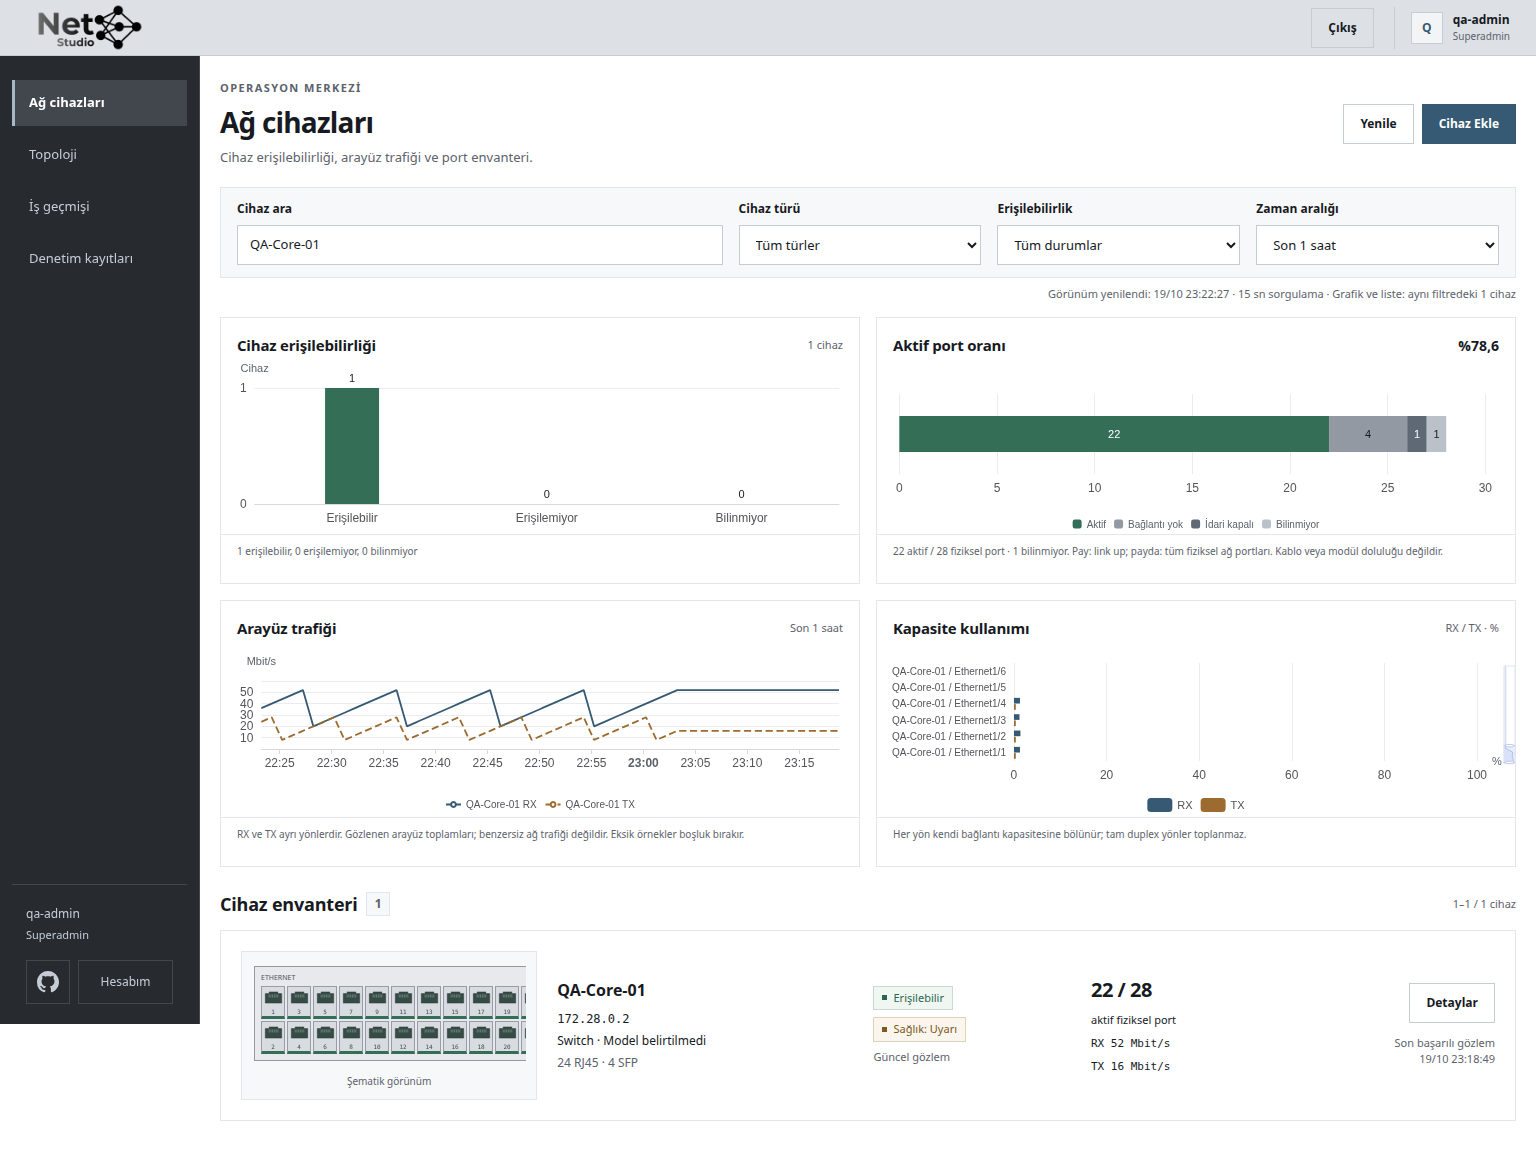
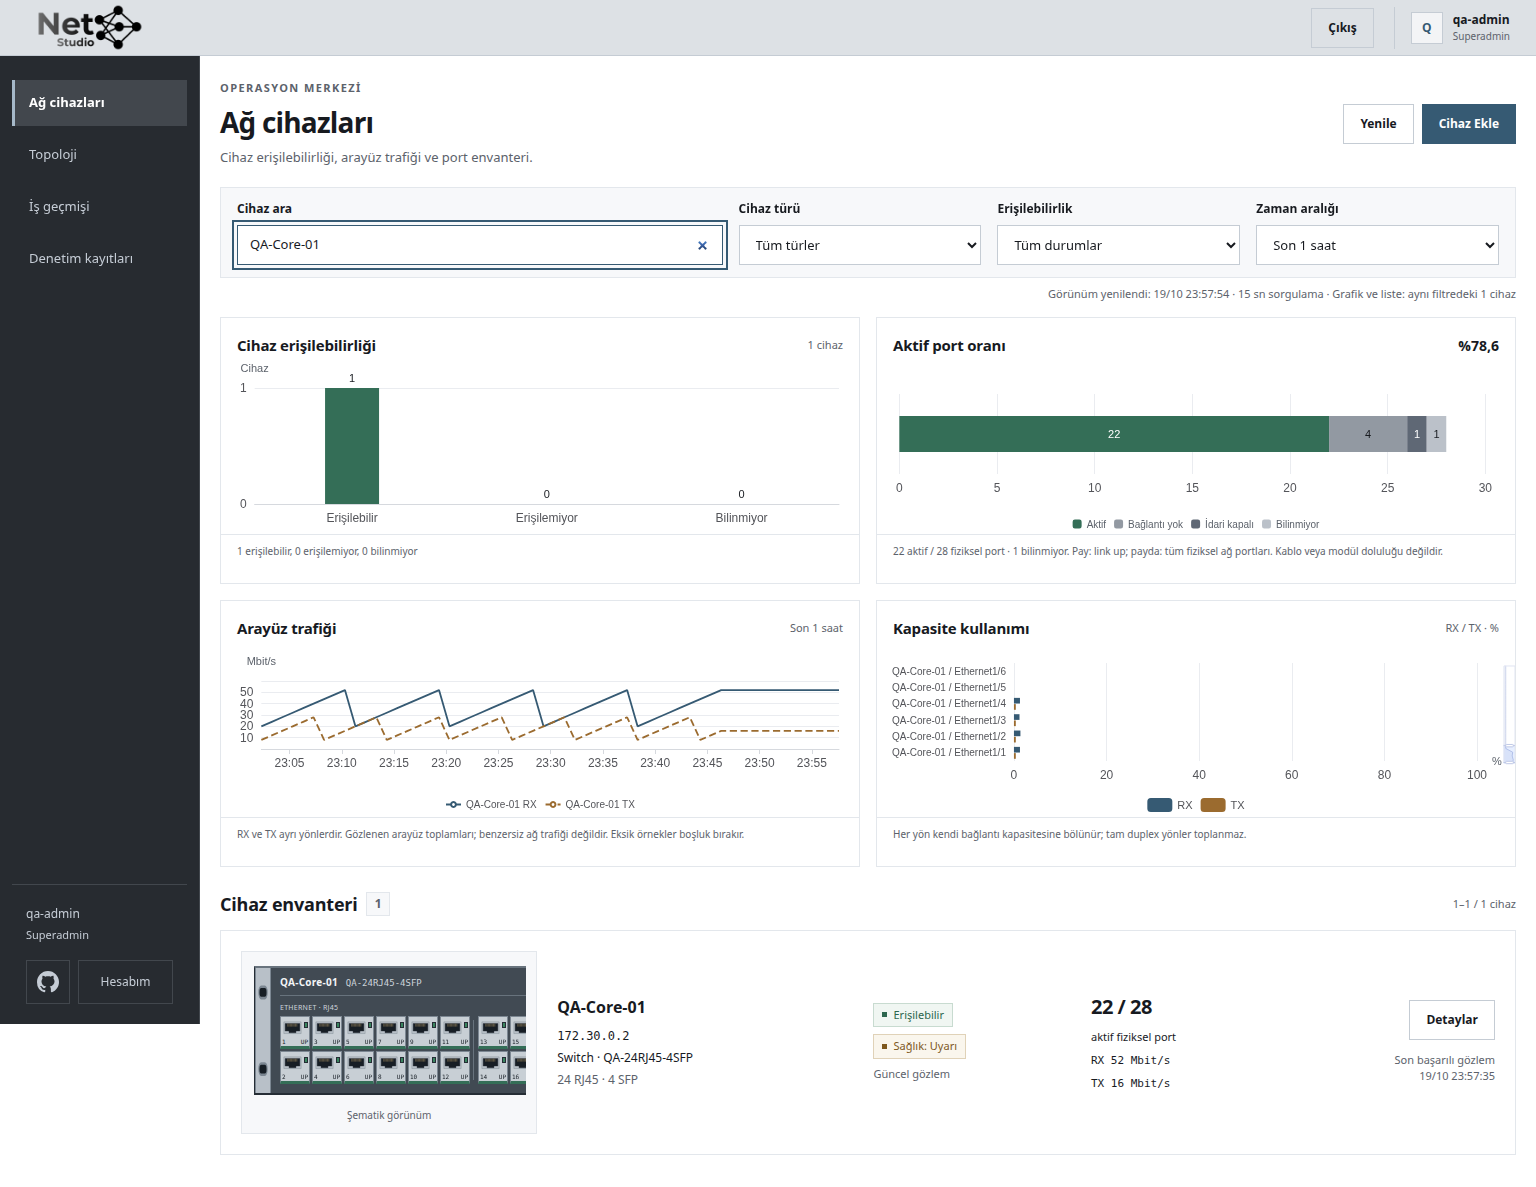
feat: Implement RJ45 port banks layout and update device panel rendering logic

diff --git a/frontend/components/DevicePanel.tsx b/frontend/components/DevicePanel.tsx
@@ -1,7 +1,7 @@
 "use client";
 import { useMemo } from "react";
 import type { PhysicalPort, PortState, Projection } from "../lib/contracts";
-import { groupPanelPorts } from "../lib/panel-layout";
+import { groupPanelPorts, panelPortBanks } from "../lib/panel-layout";
 import {
   formatRate,
   formatTime,
@@ -116,34 +116,44 @@ export function DevicePanel({
                     data-connector={group.connector}
                   >
                     <span className="group-label">{group.title}</span>
-                    <div className="port-grid">
-                      {group.ports.map((port) => {
-                        const status =
-                          row.ports.port_states[port.id] ?? "unknown";
-                        return (
-                          <button
-                            type="button"
-                            key={port.id}
-                            className={`physical-port connector-${port.connector} ${status} ${selectedId === port.id ? "selected" : ""}`}
-                            data-port-id={port.id}
-                            aria-pressed={selectedId === port.id}
-                            aria-label={`${port.label}, ${portLabels[status]}`}
-                            title={`${port.label} · ${port.connector.toUpperCase()} · ${portLabels[status]}`}
-                            onClick={() => onSelect(port)}
-                          >
-                            <span className="port-face">
-                              <PortGeometry kind={port.connector} />
-                              <span className="port-indicator" aria-hidden="true" />
-                            </span>
-                            <span className="port-marking">
-                              <span className="port-number">{port.label}</span>
-                              <span className="port-link-label" aria-hidden="true">
-                                {linkIndicatorLabels[status]}
-                              </span>
-                            </span>
-                          </button>
-                        );
-                      })}
+                    <div
+                      className={`port-banks ${group.connector === "rj45" ? "rj45-banks" : ""}`}
+                    >
+                      {panelPortBanks(group).map((bank, bankIndex) => (
+                        <div
+                          className="port-grid port-bank"
+                          data-port-bank={bankIndex + 1}
+                          key={bank[0]?.id ?? bankIndex}
+                        >
+                          {bank.map((port) => {
+                            const status =
+                              row.ports.port_states[port.id] ?? "unknown";
+                            return (
+                              <button
+                                type="button"
+                                key={port.id}
+                                className={`physical-port connector-${port.connector} ${status} ${selectedId === port.id ? "selected" : ""}`}
+                                data-port-id={port.id}
+                                aria-pressed={selectedId === port.id}
+                                aria-label={`${port.label}, ${portLabels[status]}`}
+                                title={`${port.label} · ${port.connector.toUpperCase()} · ${portLabels[status]}`}
+                                onClick={() => onSelect(port)}
+                              >
+                                <span className="port-face">
+                                  <PortGeometry kind={port.connector} />
+                                  <span className="port-indicator" aria-hidden="true" />
+                                </span>
+                                <span className="port-marking">
+                                  <span className="port-number">{port.label}</span>
+                                  <span className="port-link-label" aria-hidden="true">
+                                    {linkIndicatorLabels[status]}
+                                  </span>
+                                </span>
+                              </button>
+                            );
+                          })}
+                        </div>
+                      ))}
                     </div>
                   </div>
                 ))}

diff --git a/frontend/tests/e2e/panel.spec.ts b/frontend/tests/e2e/panel.spec.ts
@@ -32,6 +32,15 @@ async function expectOpticsOnRight(panel: Locator) {
   }
 }
 
+async function expectCopperBanks(panel: Locator, count: number) {
+  const banks = panel.locator('[data-connector="rj45"] [data-port-bank]');
+  await expect(banks).toHaveCount(count);
+  if (count < 2) return;
+  const first = await banks.nth(0).boundingBox();
+  const second = await banks.nth(1).boundingBox();
+  expect(second!.x - (first!.x + first!.width)).toBeGreaterThanOrEqual(8);
+}
+
 for (const width of [1536, 390]) {
   test(`rack nameplate, horizontal optics and keyboard selection at ${width}px`, async ({ page }) => {
     const errors: string[] = [];
@@ -50,6 +59,7 @@ for (const width of [1536, 390]) {
     await expect(compact.locator(".chassis-name")).toHaveText("QA-Core-01");
     await expect(compact.locator(".chassis-model")).toHaveText("QA-24RJ45-4SFP");
     await expect(compact.locator(".rack-ear[aria-hidden=true]")).toHaveCount(2);
+    await expectCopperBanks(compact, 2);
     await expectOpticsOnRight(compact);
     await page.screenshot({ path: join(evidence, `dashboard-${width}.png`), fullPage: true });
 
@@ -59,6 +69,7 @@ for (const width of [1536, 390]) {
     await expect(panel.locator(".chassis-name")).toHaveText("QA-Core-01");
     await expect(panel.locator(".chassis-model")).toHaveText("QA-24RJ45-4SFP");
     await expect(panel.locator(".physical-port")).toHaveCount(28);
+    await expectCopperBanks(panel, 2);
     for (const [state, text] of Object.entries({ up: "UP", down: "DOWN", disabled: "ADM", unknown: "?" })) {
       const button = panel.locator(`.physical-port.${state}`).first();
       await expect(button.locator(".port-link-label")).toHaveText(text);
@@ -154,6 +165,7 @@ test("48 copper ports, mixed SFP/QSFP, unknown connectors and empty inventory", 
   await page.getByRole("button", { name: "Yenile", exact: true }).click();
   const panel = page.locator(".device-panel");
   await expect(panel.locator(".physical-port")).toHaveCount(53);
+  await expectCopperBanks(panel, 4);
   await expect(panel.locator('[data-port-id="child"]')).toHaveCount(0);
   await expect(panel.locator('[data-connector="unknown"]')).toContainText("Tür bilinmiyor");
   await expectOpticsOnRight(panel);

diff --git a/frontend/tests/panel-layout.test.ts b/frontend/tests/panel-layout.test.ts
@@ -1,6 +1,6 @@
 import { describe, expect, it } from "vitest";
 import type { PhysicalPort } from "../lib/contracts";
-import { groupPanelPorts } from "../lib/panel-layout";
+import { groupPanelPorts, panelPortBanks, RJ45_PORTS_PER_BANK } from "../lib/panel-layout";
 
 const components = [
   { id: "chassis", kind: "chassis", label: "Chassis" },
@@ -39,5 +39,17 @@ describe("schematic front panel grouping", () => {
     expect(groups[0].title).toContain("Tür bilinmiyor");
     expect(groups[0].optical).toBe(false);
     expect(groupPanelPorts([], components)).toEqual([]);
+  });
+
+  it("creates a visual separator after six RJ45 columns in the two-row grid", () => {
+    const ports = Array.from({ length: 26 }, (_, index) =>
+      port(`r${index + 1}`, "rj45", index + 1),
+    );
+    const [group] = groupPanelPorts(ports, components);
+    expect(RJ45_PORTS_PER_BANK).toBe(12);
+    expect(panelPortBanks(group).map((bank) => bank.length)).toEqual([12, 12, 2]);
+    expect(panelPortBanks(group).flat().map((item) => item.id)).toEqual(
+      ports.map((item) => item.id),
+    );
   });
 });

diff --git a/frontend/lib/panel-layout.ts b/frontend/lib/panel-layout.ts
@@ -8,6 +8,8 @@ export type PanelGroup = {
   ports: PhysicalPort[];
 };
 
+export const RJ45_PORTS_PER_BANK = 12;
+
 const connectorOrder = { rj45: 0, unknown: 1, management: 1, console: 1, sfp: 2, qsfp: 3 };
 
 // Presentation only: keep inventory identities/module labels, without claiming a
@@ -42,4 +44,17 @@ export function groupPanelPorts(
   return [...groups.values()].sort(
     (a, b) => connectorOrder[a.connector] - connectorOrder[b.connector],
   );
+}
+
+// RJ45 ports are drawn in two rows. Twelve inventory entries therefore form a
+// six-column bank before the small physical-style separator. This is explicitly
+// schematic and does not claim measured vendor chassis coordinates.
+export function panelPortBanks(group: PanelGroup): PhysicalPort[][] {
+  const bankSize = group.connector === "rj45"
+    ? RJ45_PORTS_PER_BANK
+    : Math.max(1, group.ports.length);
+  const banks: PhysicalPort[][] = [];
+  for (let index = 0; index < group.ports.length; index += bankSize)
+    banks.push(group.ports.slice(index, index + bankSize));
+  return banks;
 }

diff --git a/frontend/app/globals.css b/frontend/app/globals.css
@@ -869,6 +869,25 @@ h3 {
   grid-auto-flow: column;
   gap: 5px;
 }
+.port-banks {
+  display: flex;
+  align-items: flex-start;
+}
+.rj45-banks {
+  gap: 14px;
+}
+.rj45-banks .port-bank + .port-bank {
+  position: relative;
+}
+.rj45-banks .port-bank + .port-bank::before {
+  content: "";
+  position: absolute;
+  top: 4px;
+  bottom: 4px;
+  left: -8px;
+  width: 1px;
+  background: var(--chassis-seam);
+}
 .optical-group .port-grid {
   grid-template-rows: auto;
 }
@@ -1025,6 +1044,12 @@ button.physical-port.connector-qsfp {
 }
 .compact .port-grid {
   gap: 2px;
+}
+.compact .rj45-banks {
+  gap: 8px;
+}
+.compact .rj45-banks .port-bank + .port-bank::before {
+  left: -5px;
 }
 .compact .physical-port {
   width: 30px;

diff --git a/README.md b/README.md
@@ -35,7 +35,7 @@ Aşağıdaki üç görüntü çalışan uygulamanın izole QA ortamından alınm
 
 **Güncellik kuralı:** Her görsel arayüz güncellemesinde aşağıdaki üç görüntünün tamamı güncel koddan yeniden alınır ve aynı değişiklik/PR içinde teslim edilir. İnsanlar ve yapay zekâ için ayrıntılar [rule.md](rule.md#5-her-görsel-güncellemede-readme-görüntülerini-yenile), ajanların uygulama adımları [agent.md](agent.md) içindedir.
 
-Son set: **19 Ekim 2026**, `stocc-huawei-qa-20261019` izole Docker ortamı, Chrome, 1536 × 1024 viewport ve tam sayfa yakalama. Test edilen çalışma ağacı `24716d5` üzerine Huawei/cihaz hedef onayı değişikliklerini içerir; mevcut kullanıcı kurulumu değiştirilmemiştir.
+Son set: **19 Ekim 2026**, `stocc-panel-qa-20261019` izole Docker ortamı, Chrome, 1536 × 1024 viewport ve tam sayfa yakalama. Test edilen çalışma ağacı `6ca5044` üzerine RJ45 banka ayrımı değişikliklerini içerir; mevcut kullanıcı kurulumu değiştirilmemiştir.
 
 ### Ana sayfa
 
@@ -45,7 +45,7 @@ Cihaz filtresi ve zaman aralığıyla aynı kapsamı paylaşan Apache ECharts gr
 
 ### Cihaz detayı — SSH kapalı
 
-Tam genişlikte etkileşimli cihaz ön paneli; kasa üzerinde envanterdeki cihaz adı/modeli, iki yanda şematik rack montaj delikleri, solda RJ45 ve sağda tek sıra SFP/QSFP grupları. Mat grafit/metal yüzeyler marka bağımsızdır; montaj geometrisi ve port yerleşimi üretici kasasının birebir ölçülü çizimi değildir. Altında IP topolojisi, teknik bilgiler ve sağlık değerlendirmesi bulunur.
+Tam genişlikte etkileşimli cihaz ön paneli; kasa üzerinde envanterdeki cihaz adı/modeli, iki yanda şematik rack montaj delikleri, solda RJ45 ve sağda tek sıra SFP/QSFP grupları. İki sıralı RJ45 görünümünde her altı sütundan sonra ölçülü bir banka ayrımı bulunur. Mat grafit/metal yüzeyler marka bağımsızdır; montaj geometrisi ve port yerleşimi üretici kasasının birebir ölçülü çizimi değildir. Altında IP topolojisi, teknik bilgiler ve sağlık değerlendirmesi bulunur.
 
 Port yuvalarının yanındaki göstergeler aynı telemetri durumunu kullanır: **UP** yeşil, **DOWN** sönük gri, **ADM** idari kapalı, **?** bilinmiyor. İdari kapalı port arızalı sayılmaz; güncelliğini kaybeden veri aktif LED olarak gösterilmez. Port seçimi dış çerçeveyle ayrıca belirtilir. Dar alanda panel yatay kayar; portlar okunamayacak kadar küçültülmez.
 
